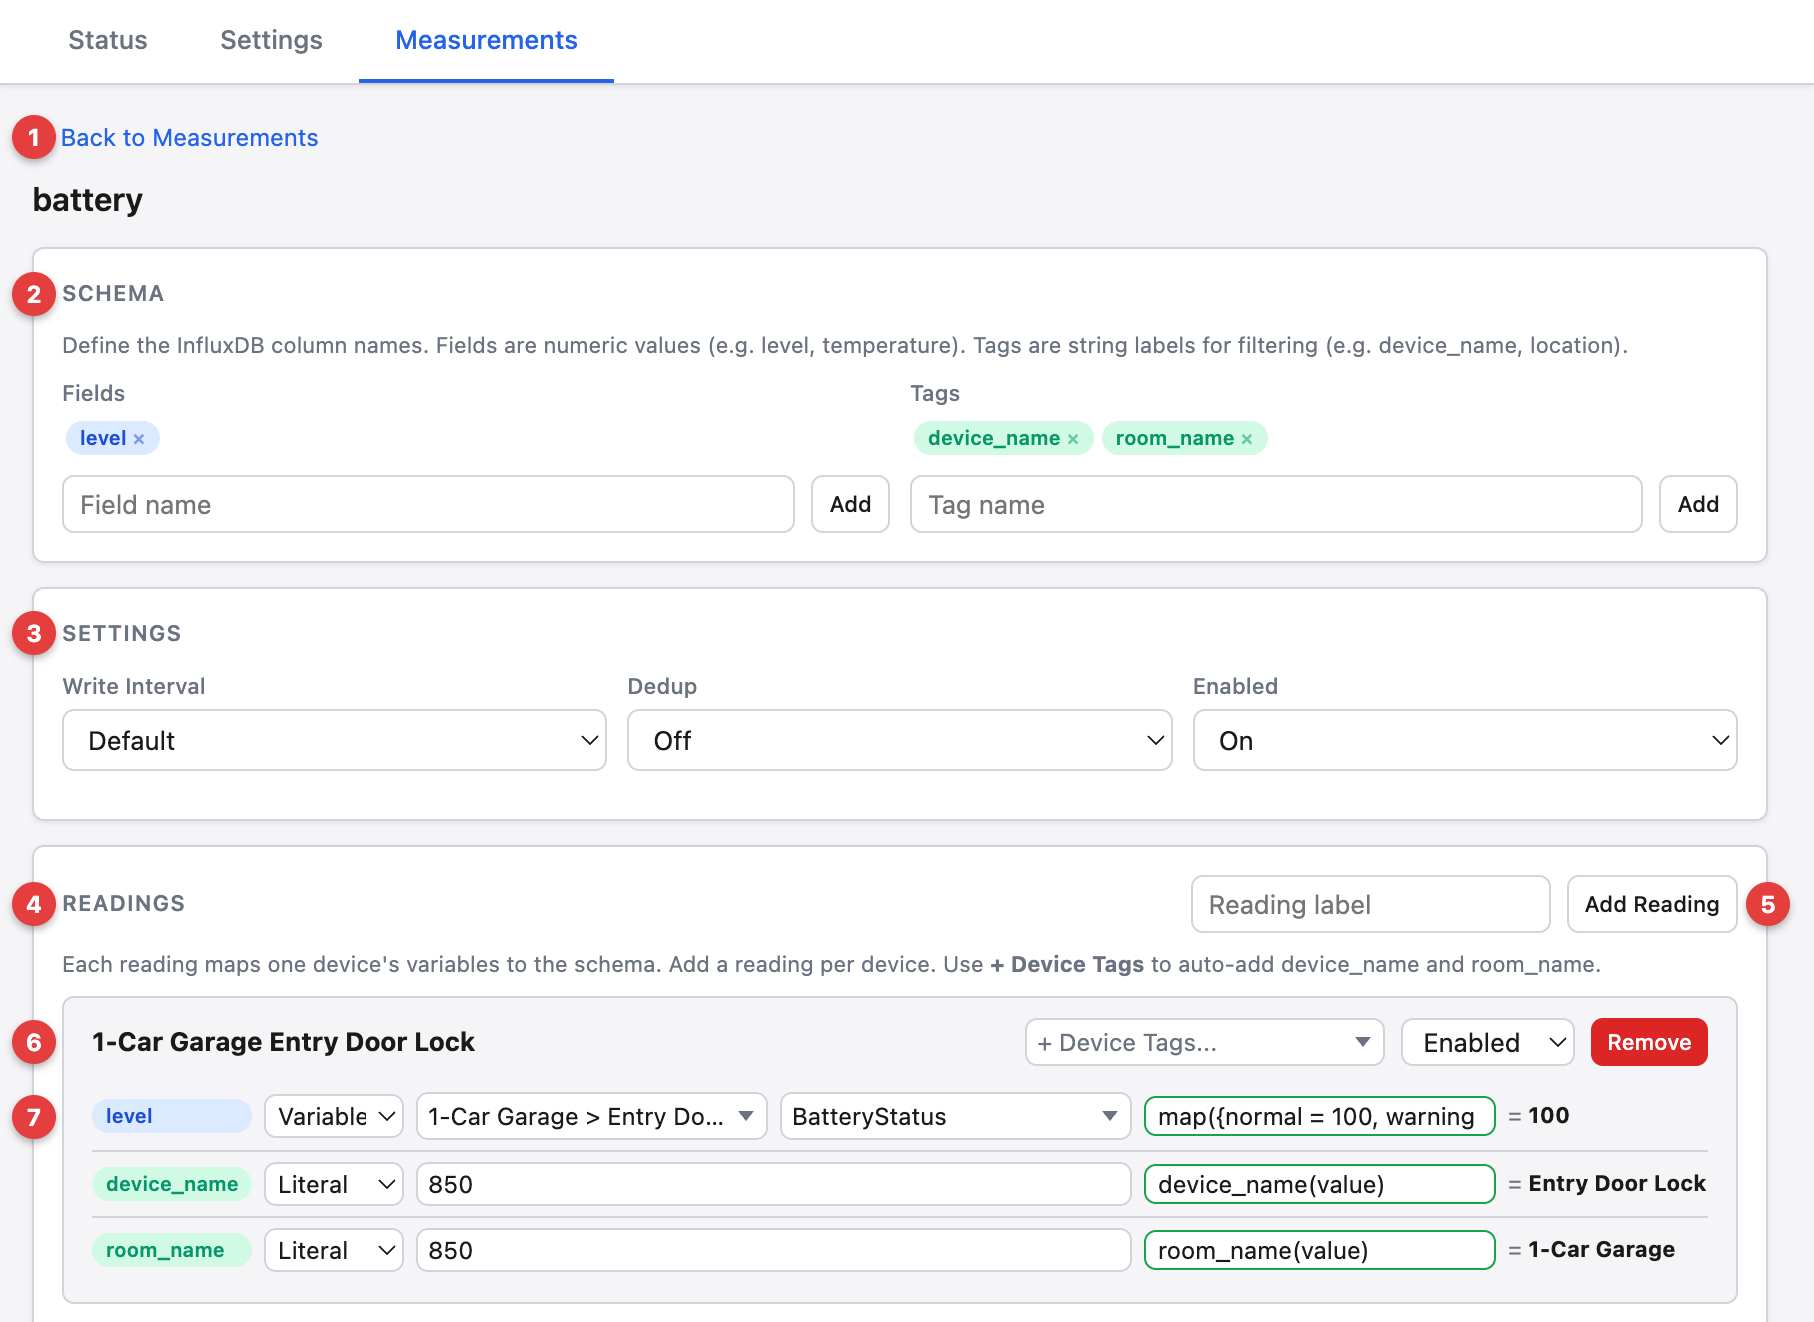
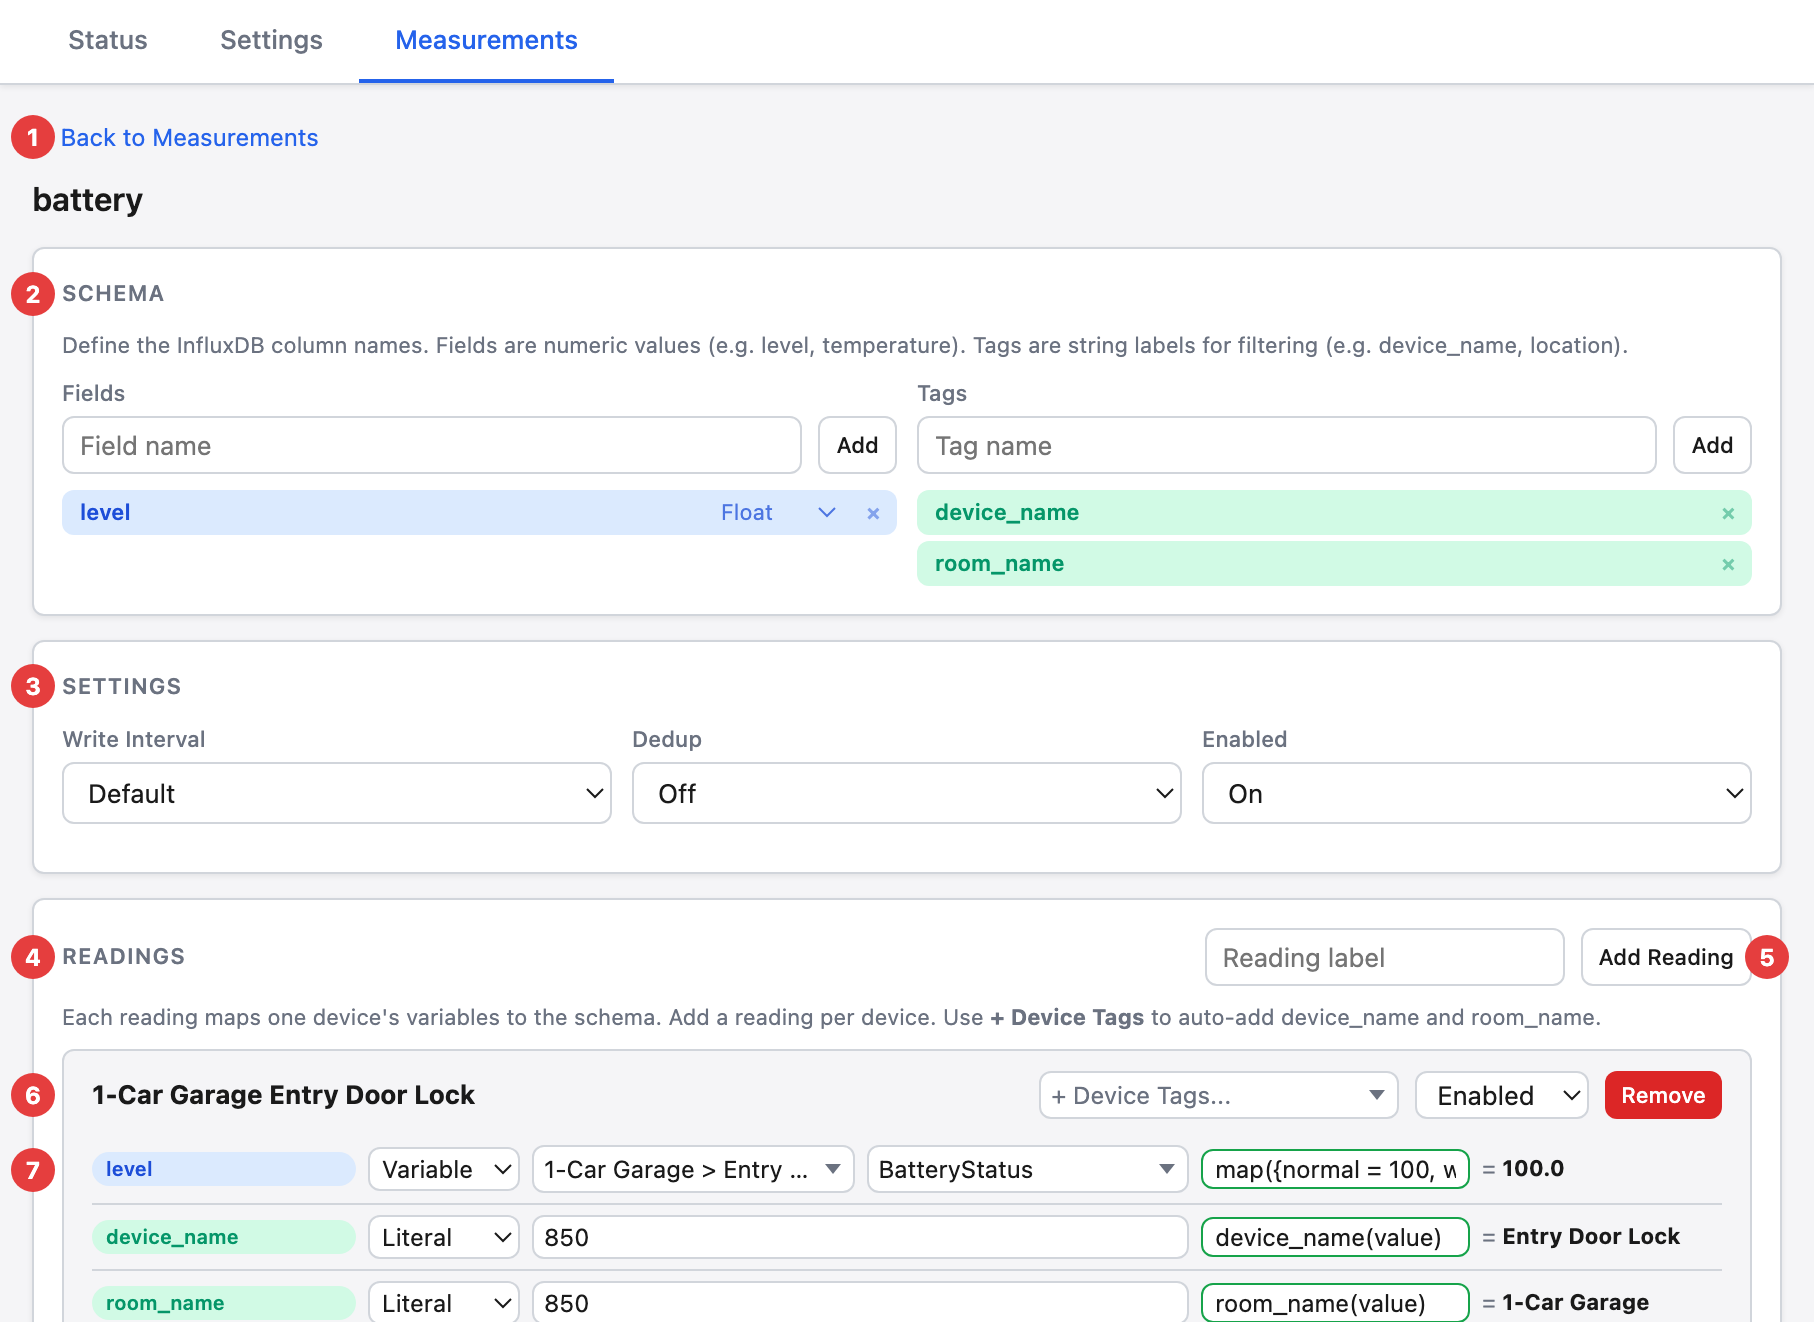
docs: describe the pinned field type in the measurement editor guide (#37)
The v20260816 schema field type pin and the typed mapping preview shipped
without a docs pass, so the guide still described inference-only behaviour
and the screenshot predated both the type selector and the schema rows that
replaced the old pills.

Fixes DRV-100

diff --git a/README.md b/README.md
@@ -138,7 +138,13 @@ column.
 1. **Back to Measurements** - return to the list view
 1. **Schema** - define the InfluxDB columns. Add **fields** (numeric data like
    `level`, `temperature`) and **tags** (string labels like `device_name`,
-   `room_name`). Use the input boxes and **Add** buttons to create them.
+   `room_name`). Use the input boxes and **Add** buttons to create them. Each
+   field row carries a **type** selector - `Auto`, `Float`, `Integer`, `String`
+   or `Boolean`. `Auto` infers the type from each value, which types a column
+   twice if its readings mix whole and fractional numbers, and InfluxDB rejects
+   the write. Pinning a type keeps every reading agreeing. The type belongs to
+   the column, so it is set here rather than per reading. Tags are always
+   strings and have no type selector.
 1. **Settings** - **Write Interval** controls how often data is sent (use
    `Default` to inherit the global interval). **Dedup** skips writes when values
    haven't changed. **Enabled** toggles data collection.
@@ -154,7 +160,10 @@ column.
    - **Device** - searchable picker for the Control4 device (Variable only)
    - **Variable** - the device variable to read (Variable only)
    - **Transform** - optional Lua expression (see [Transforms](#transforms))
-   - **Preview** - live result evaluated on the controller
+   - **Preview** - live result evaluated on the controller, shown the way it
+     will be written. A field previews under its schema type, so `0`, `0.0`,
+     `"0"` and `false` are told apart, and a type the value cannot be coerced
+     into shows an error here before the reading is saved.
 
 ##### Transforms
 

diff --git a/drivers/influxdb/www/documentation/index.md b/drivers/influxdb/www/documentation/index.md
@@ -201,7 +201,13 @@ column.
 1. **Back to Measurements** - return to the list view
 1. **Schema** - define the InfluxDB columns. Add **fields** (numeric data like
    `level`, `temperature`) and **tags** (string labels like `device_name`,
-   `room_name`). Use the input boxes and **Add** buttons to create them.
+   `room_name`). Use the input boxes and **Add** buttons to create them. Each
+   field row carries a **type** selector - `Auto`, `Float`, `Integer`, `String`
+   or `Boolean`. `Auto` infers the type from each value, which types a column
+   twice if its readings mix whole and fractional numbers, and InfluxDB rejects
+   the write. Pinning a type keeps every reading agreeing. The type belongs to
+   the column, so it is set here rather than per reading. Tags are always
+   strings and have no type selector.
 1. **Settings** - **Write Interval** controls how often data is sent (use
    `Default` to inherit the global interval). **Dedup** skips writes when values
    haven't changed. **Enabled** toggles data collection.
@@ -217,7 +223,10 @@ column.
    - **Device** - searchable picker for the Control4 device (Variable only)
    - **Variable** - the device variable to read (Variable only)
    - **Transform** - optional Lua expression (see [Transforms](#transforms))
-   - **Preview** - live result evaluated on the controller
+   - **Preview** - live result evaluated on the controller, shown the way it
+     will be written. A field previews under its schema type, so `0`, `0.0`,
+     `"0"` and `false` are told apart, and a type the value cannot be coerced
+     into shows an error here before the reading is saved.
 
 ##### Transforms
 
